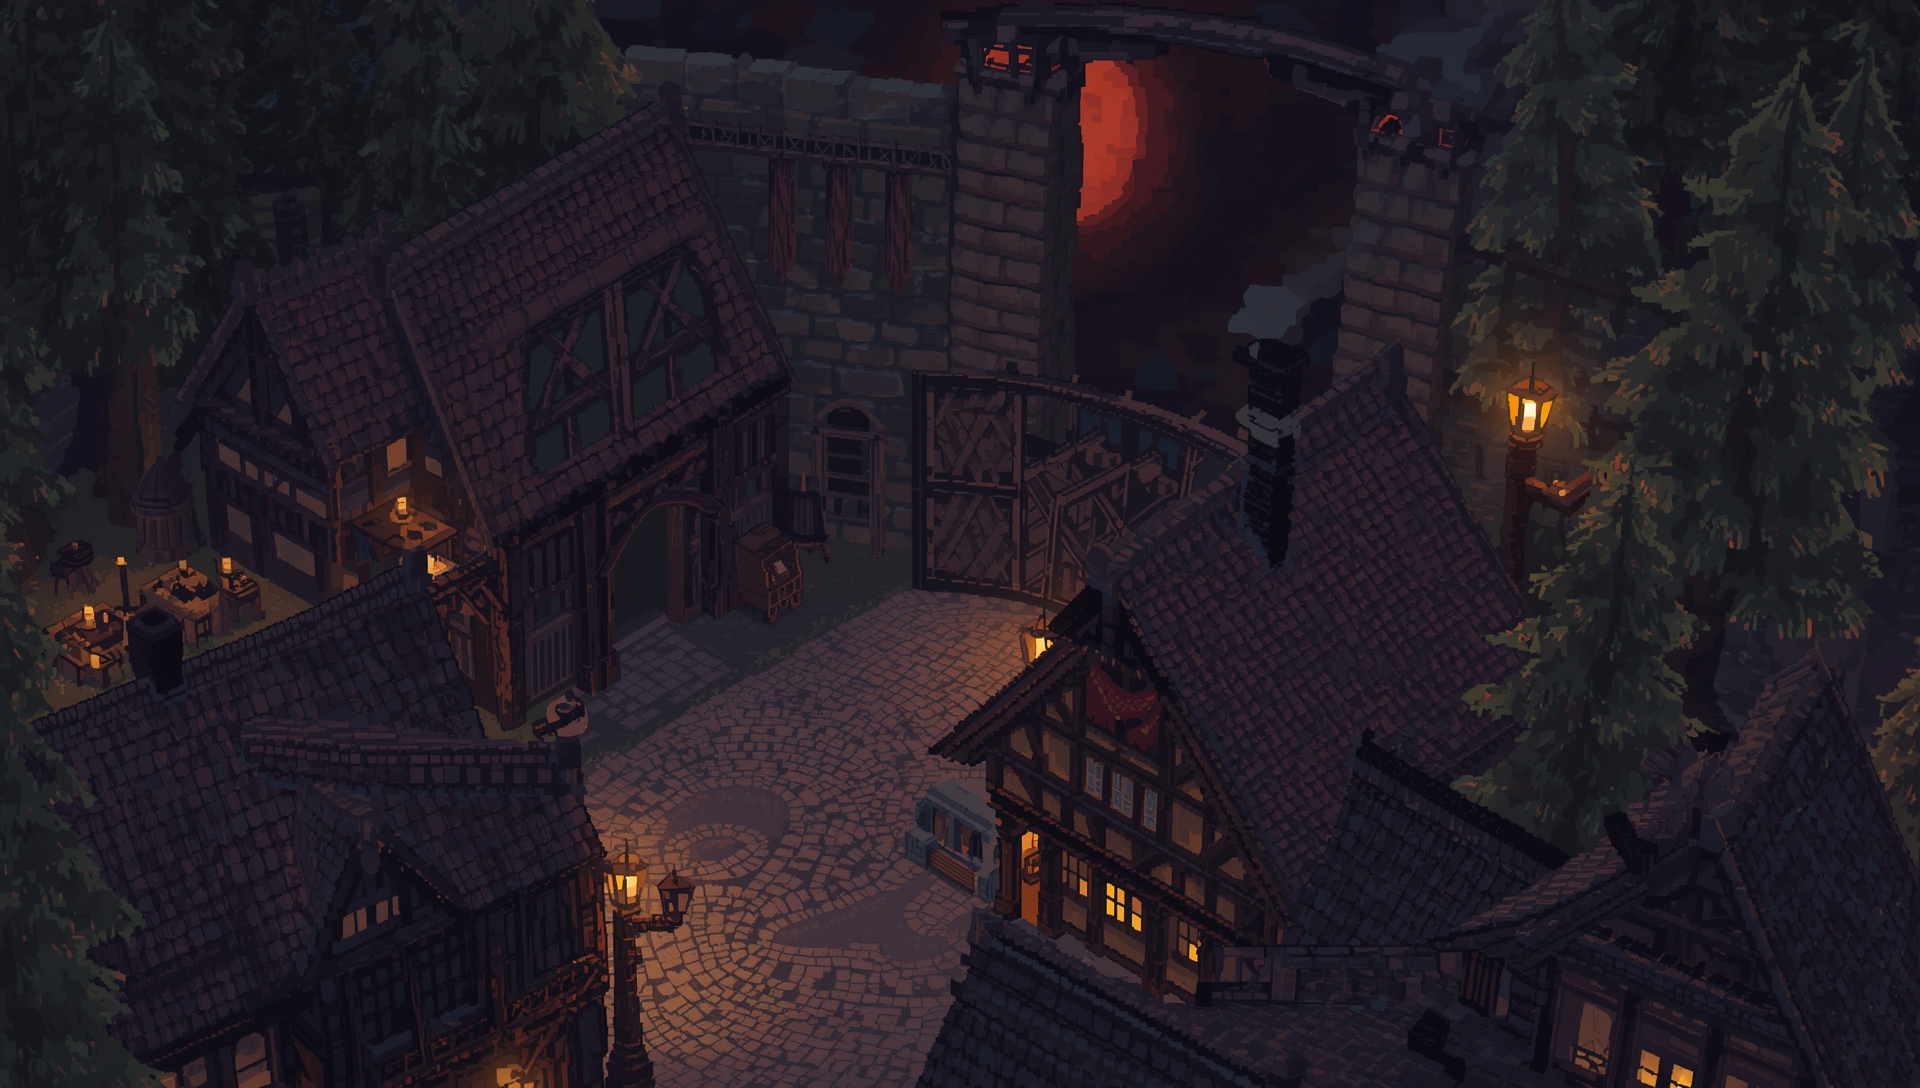
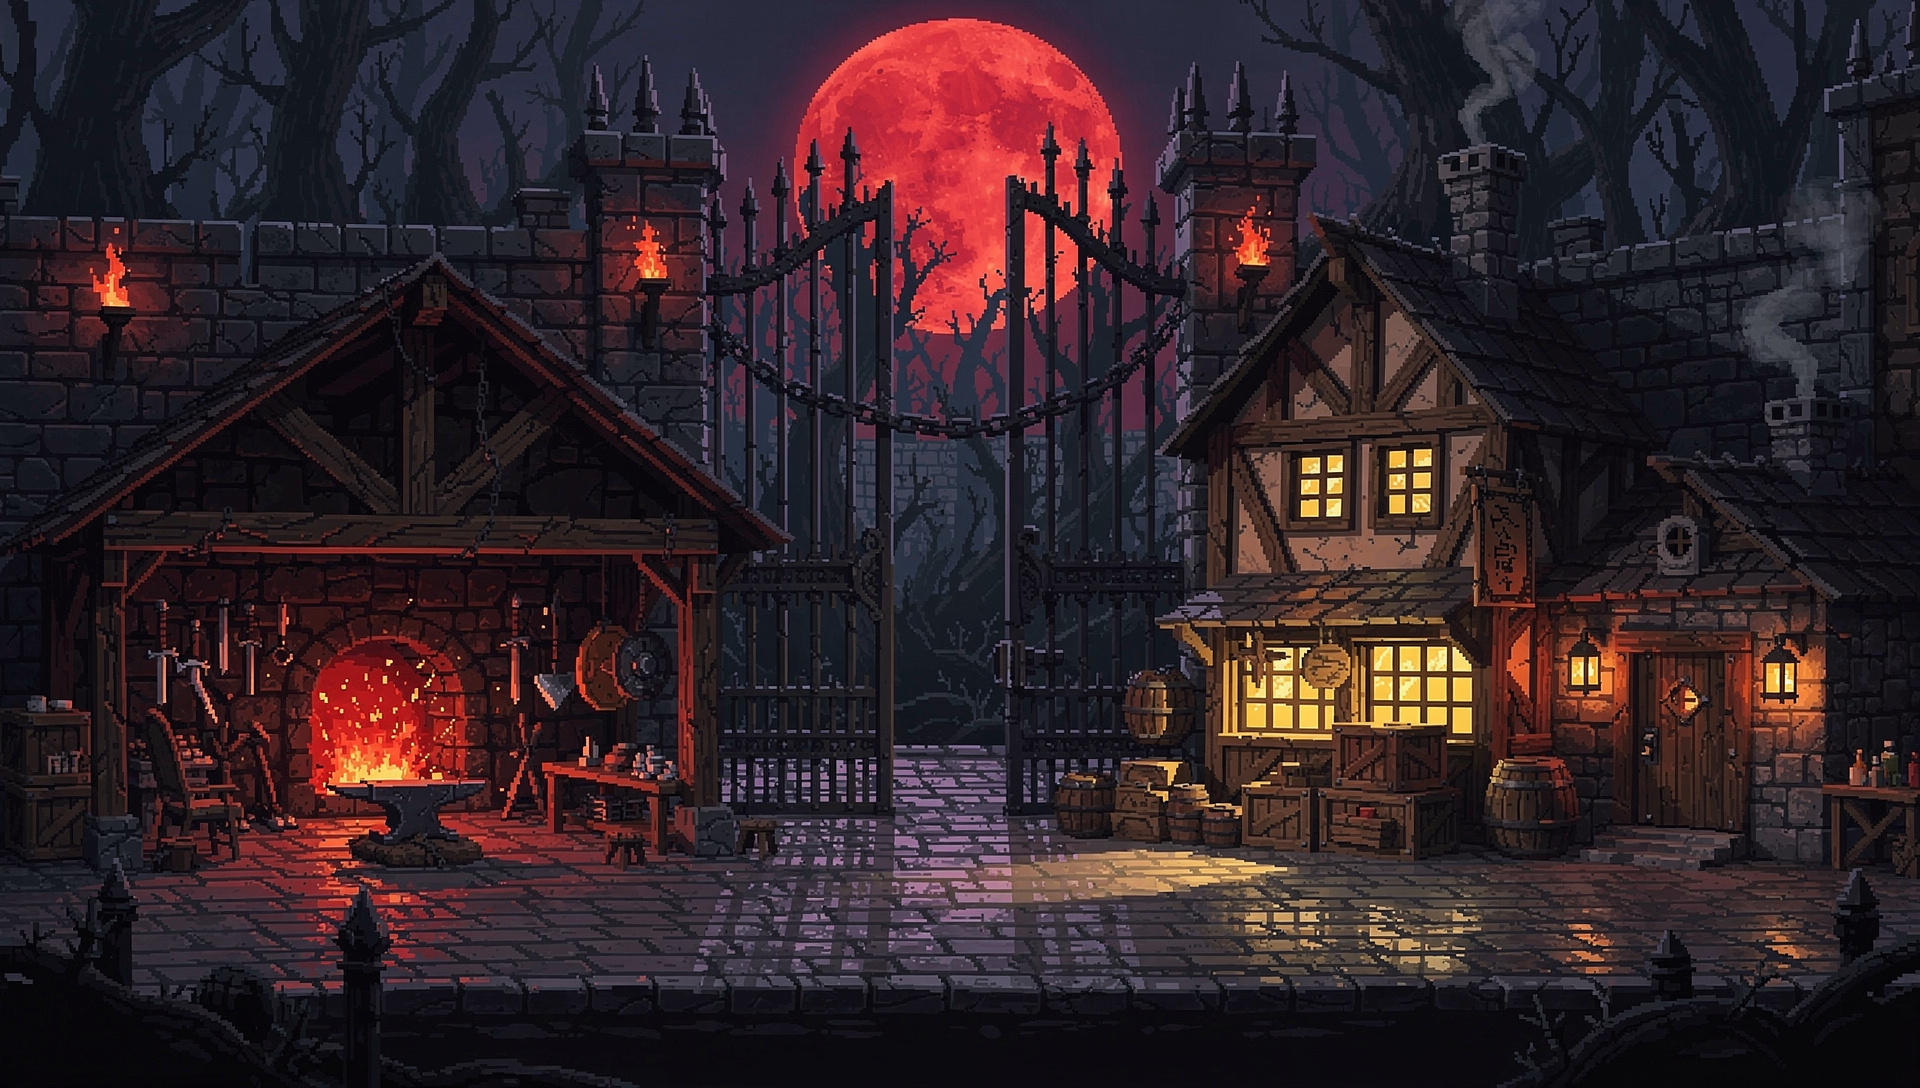
Új HUB. "működő" kovács és bolt

diff --git a/backend/backend.js b/backend/backend.js
@@ -356,21 +356,21 @@ app.post("/api/shop/buy", (req, res) => {
         const gold = players[0].gold;
 
         // 2. Tárgy lekérdezése
-        pool.query("SELECT price FROM items WHERE id = ?", [itemId], (err, itemRes) => {
+        pool.query("SELECT prize FROM items WHERE id = ?", [itemId], (err, itemRes) => {
             if (err) return res.status(500).json({ error: "DB hiba" });
             if (itemRes.length === 0) return res.status(404).json({ error: "Tárgy nem található" });
 
-            const price = itemRes[0].price;
+            const prize = itemRes[0].prize;
 
             // 3. Ellenőrzés
-            if (gold < price) {
+            if (gold < prize) {
                 return res.status(400).json({ error: "Nincs elég arany" });
             }
 
             // 4. Arany levonás
             pool.query(
                 "UPDATE players SET gold = gold - ? WHERE id = ?",
-                [price, playerId],
+                [prize, playerId],
                 err => {
                     if (err) return res.status(500).json({ error: "DB hiba arany levonásakor" });
                     
@@ -396,44 +396,93 @@ app.post("/api/shop/buy", (req, res) => {
 {/*fejleszt*/}
 
 app.post("/api/blacksmith/upgrade", (req, res) => {
-    const { playerId, itemId } = req.body;
+  const { playerId, itemId } = req.body;
+  if (!playerId || !itemId) return res.status(400).json({ success:false, error: "Hiányzó paraméter" });
 
-    // 1. játékos xp
-    pool.query("SELECT xp FROM players WHERE id = ?", [playerId], (err, playerRes) => {
-        if (err) return res.status(500).json({ error: "DB hiba" });
+  // költség-multiplikátor: összhangban a frontenddel (250)
+  const MULT = 250;
 
-        const playerXP = playerRes[0].xp;
+  pool.getConnection((err, conn) => {
+    if (err) {
+      console.error("Conn error:", err);
+      return res.status(500).json({ success:false, error: "DB connection error" });
+    }
 
-        // 2. tárgy adatok a birtokolbol
-        pool.query(
-            "SELECT * FROM birtokol WHERE player_id = ? AND item_id = ?",
-            [playerId, itemId],
-            (err, itemRes) => {
-                if (err) return res.status(500).json({ error: "DB hiba" });
-                if (itemRes.length === 0) return res.status(400).json({ error: "Nincs ilyen tárgyad" });
+    conn.beginTransaction(async (err) => {
+      if (err) {
+        conn.release();
+        console.error("TX begin error:", err);
+        return res.status(500).json({ success:false, error: "DB transaction error" });
+      }
 
-                const item = itemRes[0];
-                const cost = (item.upgrade_level + 1) * 200;
-
-                if (playerXP < cost)
-                    return res.status(400).json({ error: "Nincs elég XP" });
-
-                // 3. XP levonás
-                pool.query("UPDATE players SET xp = xp - ? WHERE id = ?", [cost, playerId]);
-
-                // 4. Upgrade level növelése
-                pool.query(
-                    "UPDATE birtokol SET upgrade_level = upgrade_level + 1 WHERE id = ?",
-                    [item.id]
-                );
-
-                res.json({
-  message: "Sikeres fejlesztés",
-  newUpgradeLevel: item.upgrade_level + 1
-});
-            }
+      try {
+        // 1) lekérjük a játékos XP-jét (zárás miatt FOR UPDATE - MySQL esetén)
+        const [playerRows] = await new Promise((resolve, reject) =>
+          conn.query("SELECT xp FROM players WHERE id = ? FOR UPDATE", [playerId], (e, r) => e ? reject(e) : resolve([r]))
         );
-    });
+        if (!playerRows || playerRows.length === 0) throw { status:400, message: "Nincs ilyen játékos" };
+        const playerXP = playerRows[0].xp;
+
+        // 2) lekérjük a birtokol sort (is lock)
+        const [itemRows] = await new Promise((resolve, reject) =>
+          conn.query(
+            "SELECT * FROM birtokol WHERE player_id = ? AND item_id = ? FOR UPDATE",
+            [playerId, itemId],
+            (e, r) => e ? reject(e) : resolve([r])
+          )
+        );
+        if (!itemRows || itemRows.length === 0) throw { status:400, message: "Nincs ilyen tárgyad" };
+        const item = itemRows[0];
+
+        const cost = (item.upgrade_level + 1) * MULT;
+        if (playerXP < cost) throw { status:400, message: "Nincs elég XP" };
+
+        // 3) levonjuk az XP-t
+        await new Promise((resolve, reject) =>
+          conn.query("UPDATE players SET xp = xp - ? WHERE id = ?", [cost, playerId], (e, r) => e ? reject(e) : resolve(r))
+        );
+
+        // 4) növeljük az upgrade_level-t (itt WHERE id = item.id ha birtokol.id azonosító)
+        // ha a birtokol tábla primer kulcsa 'id', használjuk azt; ha nincs, használjuk player_id+item_id
+        const whereClause = item.id ? "WHERE id = ?" : "WHERE player_id = ? AND item_id = ?";
+        const whereParams = item.id ? [item.id] : [playerId, itemId];
+
+        await new Promise((resolve, reject) =>
+          conn.query(
+            `UPDATE birtokol SET upgrade_level = upgrade_level + 1 ${whereClause}`,
+            whereParams,
+            (e, r) => e ? reject(e) : resolve(r)
+          )
+        );
+
+        // 5) lekérjük az új upgrade szintet és a maradék XP-t a válaszba
+        const [newItemRows] = await new Promise((resolve, reject) =>
+          conn.query("SELECT upgrade_level FROM birtokol WHERE player_id = ? AND item_id = ?", [playerId, itemId], (e, r) => e ? reject(e) : resolve([r]))
+        );
+        const newUpgradeLevel = newItemRows && newItemRows[0] ? newItemRows[0].upgrade_level : item.upgrade_level + 1;
+
+        const [newPlayerRows] = await new Promise((resolve, reject) =>
+          conn.query("SELECT xp FROM players WHERE id = ?", [playerId], (e, r) => e ? reject(e) : resolve([r]))
+        );
+        const newXP = newPlayerRows && newPlayerRows[0] ? newPlayerRows[0].xp : playerXP - cost;
+
+        await new Promise((resolve, reject) => conn.commit(err2 => err2 ? reject(err2) : resolve()));
+
+        conn.release();
+        return res.json({
+          success: true,
+          message: "Sikeres fejlesztés",
+          newUpgradeLevel,
+          newXP
+        });
+      } catch (e) {
+        conn.rollback(() => conn.release());
+        console.error("Upgrade error:", e);
+        if (e && e.status) return res.status(e.status).json({ success:false, error: e.message });
+        return res.status(500).json({ success:false, error: "Szerverhiba a fejlesztés közben" });
+      }
+    }); // beginTransaction
+  }); // getConnection
 });
 
 app.get("/api/items", (req, res) => {
@@ -444,17 +493,24 @@ app.get("/api/items", (req, res) => {
 });
 
 app.get("/api/player/:id/items", (req, res) => {
+  const playerId = req.params.id;
   pool.query(
     `SELECT pi.*, i.name, i.type, i.min_dmg, i.max_dmg, 
             i.intellect_bonus, i.defense_bonus, i.hp_bonus, i.rarity
      FROM birtokol pi
      JOIN items i ON i.id = pi.item_id
      WHERE pi.player_id = ?`,
-    [req.params.id],
+    [playerId],
     (err, results) => {
-      if (err) return res.status(500).json({ error: "DB error" });
-      });
-      });
+      if (err) {
+        console.error("DB error in /api/player/:id/items", err);
+        return res.status(500).json({ error: "DB error" });
+      }
+      // visszaküldjük az eredményt a kliensnek
+      res.json(results);
+    }
+  );
+});
 
 
 // Játékos összes questje

diff --git a/frontend/src/components/KovacsModal.jsx b/frontend/src/components/KovacsModal.jsx
@@ -1,5 +1,5 @@
 import React, { useState, useEffect } from "react";
-import Cim from "../Cim.jsx";
+
 
 export default function BlacksmithModal({ onClose }) {
   const [playerData, setPlayerData] = useState(null);
@@ -90,7 +90,14 @@ export default function BlacksmithModal({ onClose }) {
   
   return (
     <div className="fixed inset-0 bg-black/70 flex items-center justify-center z-50">
-      <div className="relative bg-gray-900 border border-gray-700 rounded-xl w-[80%] h-[70%] flex flex-col shadow-xl p-6 text-white">
+      <div className="relative w-[85%] h-[85%] flex-col shadow-xl p-6 text-white"
+      
+      style={{
+    backgroundImage: "url('./src/assets/pics/KOVACS.png')",
+    backgroundSize: "cover",
+    backgroundPosition: "center",
+    backgroundRepeat: "no-repeat"
+  }}>
         <button onClick={onClose} className="absolute top-3 right-3 text-gray-400 hover:text-red-400">✕</button>
 
         {loading ? (
@@ -124,8 +131,9 @@ export default function BlacksmithModal({ onClose }) {
             {error && <div className="text-red-400 text-sm mb-2">{error}</div>}
 
             <div className="flex justify-between flex-1">
-              <div className="w-1/3 bg-black/40 rounded p-4 border border-gray-700">
+              <div className="w-[15%] bg-black/40 rounded p-4 border border-gray-700">
                 <h2 className="text-center mb-2 text-sm">Jelenlegi tárgy</h2>
+                <div className="text-center">
                 {selectedItem ? (
                   <>
                     <p>{selectedItem.name} +{selectedItem.upgrade_level}</p>
@@ -134,10 +142,11 @@ export default function BlacksmithModal({ onClose }) {
                     <p>HP: {selectedItem.hp_bonus}</p>
                   </>
                 ) : <p>—</p>}
+                </div>
               </div>
 
               <div className="w-1/3 flex flex-col items-center justify-center text-center">
-                <p className="text-gray-400 text-3xl">→</p>
+                
                 <p className="text-sm mt-2">
                   Fejlesztés költsége: {selectedItem ? ((selectedItem.upgrade_level + 1) * 250) : "-"} XP
                 </p>
@@ -150,8 +159,9 @@ export default function BlacksmithModal({ onClose }) {
                 </button>
               </div>
 
-              <div className="w-1/3 bg-black/40 rounded p-4 border border-gray-700">
+              <div className="w-[15%] bg-black/40 rounded p-4 border border-gray-700">
                 <h2 className="text-center mb-2 text-sm">Fejlesztett tárgy</h2>
+                <div className="text-center">
                 {selectedItem ? (
                   <>
                     <p>{selectedItem.name} +{selectedItem.upgrade_level + 1}</p>
@@ -160,6 +170,7 @@ export default function BlacksmithModal({ onClose }) {
                     <p>HP: {selectedItem.hp_bonus + 10}</p>
                   </>
                 ) : <p>—</p>}
+                </div>
               </div>
             </div>
           </>

diff --git a/frontend/src/components/BoltModal.jsx b/frontend/src/components/BoltModal.jsx
@@ -1,5 +1,5 @@
 import React, { useState, useEffect } from "react";
-import Cim from "../Cim.jsx";
+
 
 export default function ShopModal({ onClose }) {
   const [playerData, setPlayerData] = useState(null);
@@ -57,7 +57,8 @@ export default function ShopModal({ onClose }) {
   };
 
   return (
-    <div className="fixed inset-0 bg-black/70 flex items-center justify-center z-50">
+    <div className="fixed inset-0 bg-black/70 flex items-center justify-center z-50"
+    >
       <div className="relative bg-gray-900 border border-gray-700 rounded-xl w-[90%] h-[80%] flex shadow-xl p-6 text-white">
         <button onClick={onClose} className="absolute top-3 right-3 text-gray-400 hover:text-red-400">X</button>
 
@@ -97,19 +98,10 @@ export default function ShopModal({ onClose }) {
         </div>
 
         <div className="w-1/3 bg-black/40 rounded p-4 border-l border-gray-700">
-          <h2 className="text-lg mb-3">Tárgy összehasonlítás</h2>
-          <div className="flex justify-between text-sm">
+          <h2 className="text-lg mb-3">Tárgy:</h2>
+          <div className="flex justify-between">
             <div>
-              <p className="text-gray-400">Jelenlegi</p>
-              <p>Vas kard +3</p>
-              <p>Támadás: 12</p>
-              <p>Védelem: 4</p>
-            </div>
-            <div>
-              <p className="text-gray-400">Új</p>
-              <p>Vas kard +5</p>
-              <p>Támadás: 16</p>
-              <p>Védelem: 6</p>
+              <img src="/public/cards/epic/warrior_mortal_strike.png"/>
             </div>
           </div>
         </div>

diff --git a/frontend/src/components/ClassSelect.jsx b/frontend/src/components/ClassSelect.jsx
@@ -3,7 +3,7 @@ import React, { useState, useRef, useEffect } from "react";
 import { DEFAULT_CLASSES } from "../data/classes.js";
 import { usePlayer } from "../context/PlayerContext.jsx";
 import "./ClassSelect.css";
-import Cim from "../Cim.jsx";
+
 
 
 export default function ClassSelect({ onNext }) {

diff --git a/frontend/src/components/LoginScreen.jsx b/frontend/src/components/LoginScreen.jsx
@@ -2,7 +2,7 @@
 import React, { useState, useEffect } from "react";
 import "./LoginScreen.css";
 import { usePlayer } from "../context/PlayerContext.jsx";
-import Cim from "../Cim.jsx";
+
 
 export default function LoginScreen({ onLogin }) {
   const { setPlayer } = usePlayer();

diff --git a/frontend/src/components/StatModal.jsx b/frontend/src/components/StatModal.jsx
@@ -1,7 +1,7 @@
 // frontend/src/components/StatModal.jsx
 import React, { useState } from "react";
 import { usePlayer } from "../context/PlayerContext.jsx";
-import Cim from "../Cim.jsx";
+
 
 function xpToNextLevel(level) {
   if (level <= 1) return 30;
